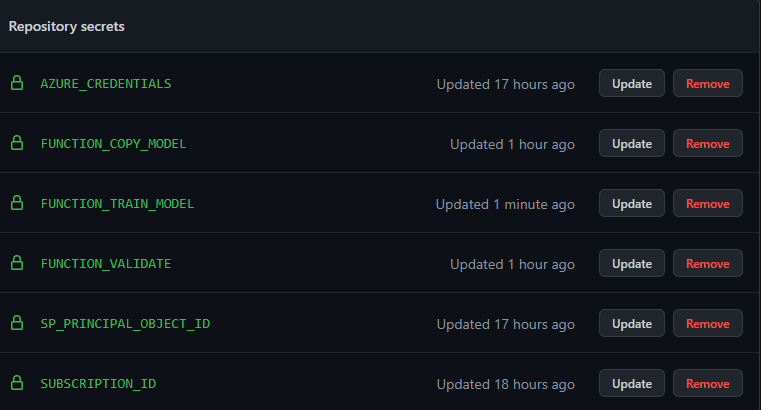
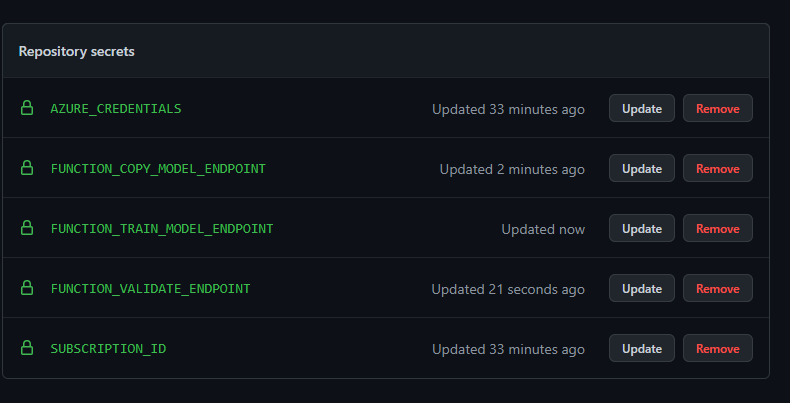
fix secrets

diff --git a/README.md b/README.md
@@ -175,19 +175,19 @@ Click on the left menu on Functions
 
 You will see all functions in the function app
 
-![newreposecret](https://raw.githubusercontent.com/hugogirard/formRecognizerDevOps/main/images/funtions2.png)
+![newreposecret](https://raw.githubusercontent.com/hugogirard/formRecognizerDevOps/main/images/functions2.png)
 
-Click on the CopyModel one and click on the button **Get Function Url** and copy the value in the Github Secret **FUNCTION_COPY_MODEL**
+Click on the CopyModel one and click on the button **Get Function Url** and copy the value in the Github Secret **FUNCTION_COPY_MODEL_ENDPOINT**
 
-![newreposecret](https://raw.githubusercontent.com/hugogirard/formRecognizerDevOps/main/images/funtionurl.png)
+![newreposecret](https://raw.githubusercontent.com/hugogirard/formRecognizerDevOps/main/images/functionurl.png)
 
 ### Function Validate Endpoint
 
-Repeat the previous step but this time get the function url for the **ValidateModelExists** function and create the Github secret **FUNCTION_TRAIN_MODEL**.
+Repeat the previous step but this time get the function URL for the **ValidateModelExists** function and create the Github secret **FUNCTION_VALIDATE_ENDPOINT**.
 
 ### Function Train Model
 
-Repeat the previous step but this time get the function url for the **TrainModel** function and create the Github secret **FUNCTION_VALIDATE**.
+Repeat the previous step but this time get the function url for the **TrainModel** function and create the Github secret **FUNCTION_TRAIN_MODEL_ENDPOINT**.
 
 Once all those secrets created in your repository you should see this.
 
